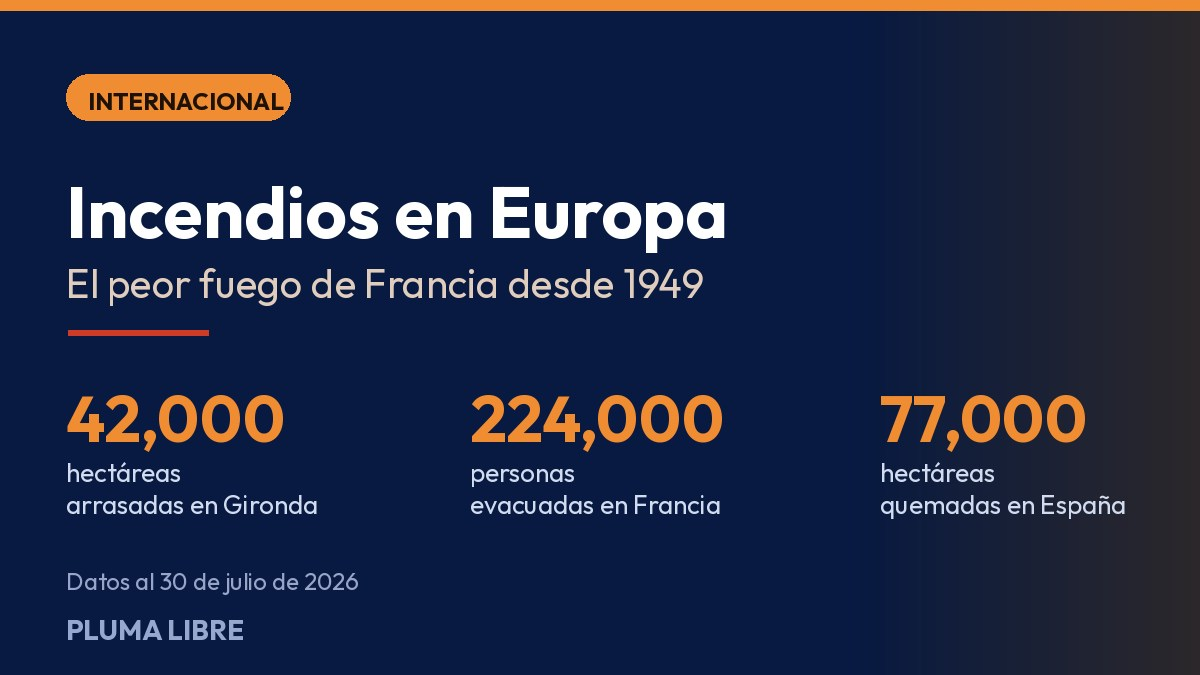
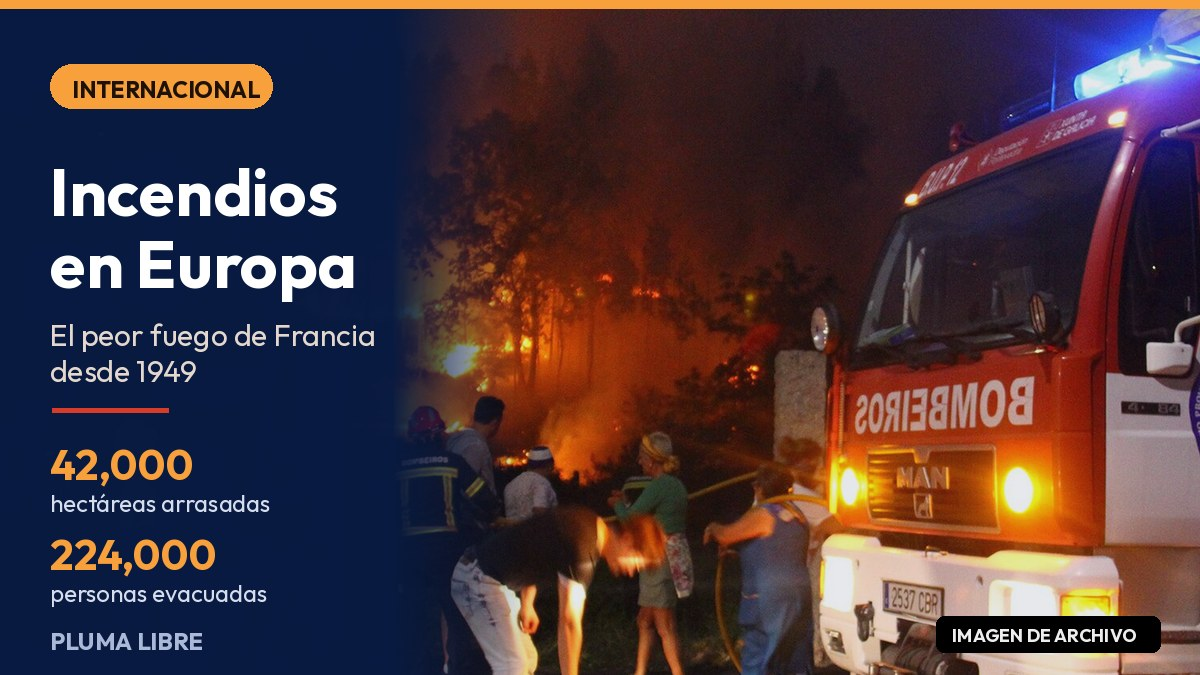
Nota incendios: portada con foto real (CC BY-SA 2.0) marcada como archivo
Foto de Contando Estrelas (incendio en Ponte Sampaio, Pontevedra) via
Wikimedia Commons. Se marca "IMAGEN DE ARCHIVO" en la propia portada y el
pie aclara que no corresponde a los incendios de 2026, con su credito.

Claude-Session: https://claude.ai/code/session_01KkC42CZv8ZK1hHpW6jybVt

diff --git a/articulos/incendios-europa-francia-espana-30-julio-2026.html b/articulos/incendios-europa-francia-espana-30-julio-2026.html
@@ -1,4 +1,4 @@
-<!DOCTYPE html><html lang="es"><head><meta charset="UTF-8"><meta name="viewport" content="width=device-width,initial-scale=1.0"><title>El peor incendio de Francia desde 1949 cede: 84,000 evacuados volvieron a casa este jueves — Pluma Libre</title><meta name="description" content="El fuego de Gironda arrasó 42,000 hectáreas y obligó a evacuar a 224,000 personas. España dio por terminada su emergencia nacional, pero las llamas siguen en Portugal y Grecia."><meta name="theme-color" content="#081A41"><link rel="canonical" href="https://plumalibre.press/articulos/incendios-europa-francia-espana-30-julio-2026.html"><meta property="og:type" content="article"><meta property="og:title" content="El peor incendio de Francia desde 1949 cede: 84,000 evacuados volvieron a casa este jueves"><meta property="og:description" content="El fuego de Gironda arrasó 42,000 hectáreas y obligó a evacuar a 224,000 personas. España dio por terminada su emergencia nacional, pero las llamas siguen en Portugal y Grecia."><meta property="og:image" content="https://plumalibre.press/assets/nota-incendios-europa-2026.jpg"><meta property="og:site_name" content="Pluma Libre"><meta property="article:published_time" content="2026-07-30"><script type="application/ld+json">{"@context":"https://schema.org","@type":"NewsArticle","headline":"El peor incendio de Francia desde 1949 cede: 84,000 evacuados volvieron a casa este jueves","datePublished":"2026-07-30","author":{"@type":"Organization","name":"Pluma Libre"},"publisher":{"@type":"Organization","name":"Pluma Libre","logo":{"@type":"ImageObject","url":"https://plumalibre.press/assets/logo-simbolo.png"}}}</script><script>(function(){try{var p=new URLSearchParams(location.search);if(p.get("pl_no_track")==="1"){localStorage.setItem("pl_no_track","1");history.replaceState({},"",location.pathname+location.hash);}if(p.get("pl_track")==="1"){localStorage.removeItem("pl_no_track");history.replaceState({},"",location.pathname+location.hash);}if(localStorage.getItem("pl_no_track")==="1"){window["ga-disable-G-TZRTJLP5KT"]=true;}}catch(e){}})();</script><script async src="https://www.googletagmanager.com/gtag/js?id=G-TZRTJLP5KT"></script><script>window.dataLayer=window.dataLayer||[];function gtag(){dataLayer.push(arguments);}gtag("js",new Date());gtag("config","G-TZRTJLP5KT");</script><link rel="icon" href="../assets/favicon.ico" sizes="any"><link rel="icon" type="image/png" sizes="32x32" href="../assets/favicon-32x32.png"><link rel="icon" type="image/png" sizes="192x192" href="../assets/favicon-192x192.png"><link rel="apple-touch-icon" href="../assets/apple-touch-icon.png"><link rel="manifest" href="/manifest.webmanifest"><meta name="apple-mobile-web-app-capable" content="yes"><meta name="apple-mobile-web-app-status-bar-style" content="black-translucent"><meta name="apple-mobile-web-app-title" content="Pluma Libre"><meta name="mobile-web-app-capable" content="yes"><link rel="preconnect" href="https://fonts.googleapis.com"><link rel="preconnect" href="https://fonts.gstatic.com" crossorigin><link href="https://fonts.googleapis.com/css2?family=Newsreader:opsz,wght@6..72,400;6..72,600;6..72,700&family=Outfit:wght@400;500;600;700&display=swap" rel="stylesheet"><link rel="stylesheet" href="../style.css"></head><body class="article-page"><div class="top-bar"><div class="wrap"><span id="fecha"></span><a href="https://www.facebook.com/plumalibre.press/" target="_blank" rel="noopener" aria-label="Facebook"><svg width="14" height="14" fill="currentColor" viewBox="0 0 24 24"><path d="M24 12.073c0-6.627-5.373-12-12-12s-12 5.373-12 12c0 5.99 4.388 10.954 10.125 11.854v-8.385H7.078v-3.47h3.047V9.43c0-3.007 1.792-4.669 4.533-4.669 1.312 0 2.686.235 2.686.235v2.953H15.83c-1.491 0-1.956.925-1.956 1.874v2.25h3.328l-.532 3.47h-2.796v8.385C19.612 23.027 24 18.062 24 12.073z"/></svg></a></div></div><header class="header"><div class="wrap"><a href="../index.html" class="logo"><img src="../assets/logo-simbolo.png" alt="Pluma Libre" class="logo-simbolo" width="40" height="40"><div class="logo-text"><h1><img src="../assets/logo-wordmark.png" alt="PLUMA LIBRE" class="logo-wordmark"></h1></div></a><button class="menu-btn" id="menuBtn" aria-label="Menú"><span></span><span></span><span></span></button><nav class="nav" id="nav"><ul><li><a href="../index.html">Inicio</a></li><li><a href="../secciones/politico.html">Política</a></li><li><a href="../secciones/economico.html">Economía</a></li><li><a href="../secciones/deportivo.html">Deportes</a></li><li><a href="../secciones/social.html">Social</a></li><li><a href="../secciones/religioso.html">Religión</a></li><li><a href="../secciones/cultural.html">Cultura</a></li><li><a href="../secciones/internacional.html">Internacional</a></li><li><a href="../sobre-nosotros.html">Nosotros</a></li></ul></nav></div></header><main><div class="wrap"><div class="article-header"><span class="badge badge-brand">Internacional</span><h1>El peor incendio de Francia desde 1949 cede: 84,000 evacuados volvieron a casa este jueves</h1><p class="subtitle">El fuego de Gironda arrasó 42,000 hectáreas y obligó a evacuar a 224,000 personas. España dio por terminada su emergencia nacional, pero las llamas siguen en Portugal y Grecia.</p><div class="article-meta"><strong>Por Pluma Libre</strong> · 30 de julio, 2026 · Redacción</div></div><figure class="article-img"><img src="../assets/nota-incendios-europa-2026.jpg" alt="Cifras de los incendios forestales en Francia y España al 30 de julio de 2026" loading="eager"><figcaption>Balance de los incendios en Francia y España al 30 de julio de 2026.</figcaption></figure><div class="article-body"><p>Unas <strong>84,000 personas</strong> regresaron este jueves a sus casas en el departamento francés de la <strong>Gironda</strong>, en el suroeste del país, después de que mejorara la situación del mayor incendio forestal que ha sufrido Francia desde 1949. Se suman a las cerca de 60,000 que ya habían podido volver desde el martes, aunque unas <strong>80,000 siguen evacuadas</strong>.</p>
+<!DOCTYPE html><html lang="es"><head><meta charset="UTF-8"><meta name="viewport" content="width=device-width,initial-scale=1.0"><title>El peor incendio de Francia desde 1949 cede: 84,000 evacuados volvieron a casa este jueves — Pluma Libre</title><meta name="description" content="El fuego de Gironda arrasó 42,000 hectáreas y obligó a evacuar a 224,000 personas. España dio por terminada su emergencia nacional, pero las llamas siguen en Portugal y Grecia."><meta name="theme-color" content="#081A41"><link rel="canonical" href="https://plumalibre.press/articulos/incendios-europa-francia-espana-30-julio-2026.html"><meta property="og:type" content="article"><meta property="og:title" content="El peor incendio de Francia desde 1949 cede: 84,000 evacuados volvieron a casa este jueves"><meta property="og:description" content="El fuego de Gironda arrasó 42,000 hectáreas y obligó a evacuar a 224,000 personas. España dio por terminada su emergencia nacional, pero las llamas siguen en Portugal y Grecia."><meta property="og:image" content="https://plumalibre.press/assets/nota-incendios-europa-2026.jpg"><meta property="og:site_name" content="Pluma Libre"><meta property="article:published_time" content="2026-07-30"><script type="application/ld+json">{"@context":"https://schema.org","@type":"NewsArticle","headline":"El peor incendio de Francia desde 1949 cede: 84,000 evacuados volvieron a casa este jueves","datePublished":"2026-07-30","author":{"@type":"Organization","name":"Pluma Libre"},"publisher":{"@type":"Organization","name":"Pluma Libre","logo":{"@type":"ImageObject","url":"https://plumalibre.press/assets/logo-simbolo.png"}}}</script><script>(function(){try{var p=new URLSearchParams(location.search);if(p.get("pl_no_track")==="1"){localStorage.setItem("pl_no_track","1");history.replaceState({},"",location.pathname+location.hash);}if(p.get("pl_track")==="1"){localStorage.removeItem("pl_no_track");history.replaceState({},"",location.pathname+location.hash);}if(localStorage.getItem("pl_no_track")==="1"){window["ga-disable-G-TZRTJLP5KT"]=true;}}catch(e){}})();</script><script async src="https://www.googletagmanager.com/gtag/js?id=G-TZRTJLP5KT"></script><script>window.dataLayer=window.dataLayer||[];function gtag(){dataLayer.push(arguments);}gtag("js",new Date());gtag("config","G-TZRTJLP5KT");</script><link rel="icon" href="../assets/favicon.ico" sizes="any"><link rel="icon" type="image/png" sizes="32x32" href="../assets/favicon-32x32.png"><link rel="icon" type="image/png" sizes="192x192" href="../assets/favicon-192x192.png"><link rel="apple-touch-icon" href="../assets/apple-touch-icon.png"><link rel="manifest" href="/manifest.webmanifest"><meta name="apple-mobile-web-app-capable" content="yes"><meta name="apple-mobile-web-app-status-bar-style" content="black-translucent"><meta name="apple-mobile-web-app-title" content="Pluma Libre"><meta name="mobile-web-app-capable" content="yes"><link rel="preconnect" href="https://fonts.googleapis.com"><link rel="preconnect" href="https://fonts.gstatic.com" crossorigin><link href="https://fonts.googleapis.com/css2?family=Newsreader:opsz,wght@6..72,400;6..72,600;6..72,700&family=Outfit:wght@400;500;600;700&display=swap" rel="stylesheet"><link rel="stylesheet" href="../style.css"></head><body class="article-page"><div class="top-bar"><div class="wrap"><span id="fecha"></span><a href="https://www.facebook.com/plumalibre.press/" target="_blank" rel="noopener" aria-label="Facebook"><svg width="14" height="14" fill="currentColor" viewBox="0 0 24 24"><path d="M24 12.073c0-6.627-5.373-12-12-12s-12 5.373-12 12c0 5.99 4.388 10.954 10.125 11.854v-8.385H7.078v-3.47h3.047V9.43c0-3.007 1.792-4.669 4.533-4.669 1.312 0 2.686.235 2.686.235v2.953H15.83c-1.491 0-1.956.925-1.956 1.874v2.25h3.328l-.532 3.47h-2.796v8.385C19.612 23.027 24 18.062 24 12.073z"/></svg></a></div></div><header class="header"><div class="wrap"><a href="../index.html" class="logo"><img src="../assets/logo-simbolo.png" alt="Pluma Libre" class="logo-simbolo" width="40" height="40"><div class="logo-text"><h1><img src="../assets/logo-wordmark.png" alt="PLUMA LIBRE" class="logo-wordmark"></h1></div></a><button class="menu-btn" id="menuBtn" aria-label="Menú"><span></span><span></span><span></span></button><nav class="nav" id="nav"><ul><li><a href="../index.html">Inicio</a></li><li><a href="../secciones/politico.html">Política</a></li><li><a href="../secciones/economico.html">Economía</a></li><li><a href="../secciones/deportivo.html">Deportes</a></li><li><a href="../secciones/social.html">Social</a></li><li><a href="../secciones/religioso.html">Religión</a></li><li><a href="../secciones/cultural.html">Cultura</a></li><li><a href="../secciones/internacional.html">Internacional</a></li><li><a href="../sobre-nosotros.html">Nosotros</a></li></ul></nav></div></header><main><div class="wrap"><div class="article-header"><span class="badge badge-brand">Internacional</span><h1>El peor incendio de Francia desde 1949 cede: 84,000 evacuados volvieron a casa este jueves</h1><p class="subtitle">El fuego de Gironda arrasó 42,000 hectáreas y obligó a evacuar a 224,000 personas. España dio por terminada su emergencia nacional, pero las llamas siguen en Portugal y Grecia.</p><div class="article-meta"><strong>Por Pluma Libre</strong> · 30 de julio, 2026 · Redacción</div></div><figure class="article-img"><img src="../assets/nota-incendios-europa-2026.jpg" alt="Bomberos y vecinos combaten un incendio forestal junto a una carretera, con las llamas avanzando entre los árboles" loading="eager"><figcaption>Bomberos y vecinos combaten un incendio forestal en Ponte Sampaio, Pontevedra. <strong>Imagen de archivo</strong> — no corresponde a los incendios de 2026. Foto: Contando Estrelas (Vigo, España), CC BY-SA 2.0, vía Wikimedia Commons.</figcaption></figure><div class="article-body"><p>Unas <strong>84,000 personas</strong> regresaron este jueves a sus casas en el departamento francés de la <strong>Gironda</strong>, en el suroeste del país, después de que mejorara la situación del mayor incendio forestal que ha sufrido Francia desde 1949. Se suman a las cerca de 60,000 que ya habían podido volver desde el martes, aunque unas <strong>80,000 siguen evacuadas</strong>.</p>
 
 <p>El fuego permanece estabilizado desde el domingo. Las prefecturas de Nueva Aquitania y de la Gironda informaron esta mañana que la noche fue «bastante tranquila» y que las temperaturas bajaron, tras los 42 grados registrados el miércoles.</p>
 
